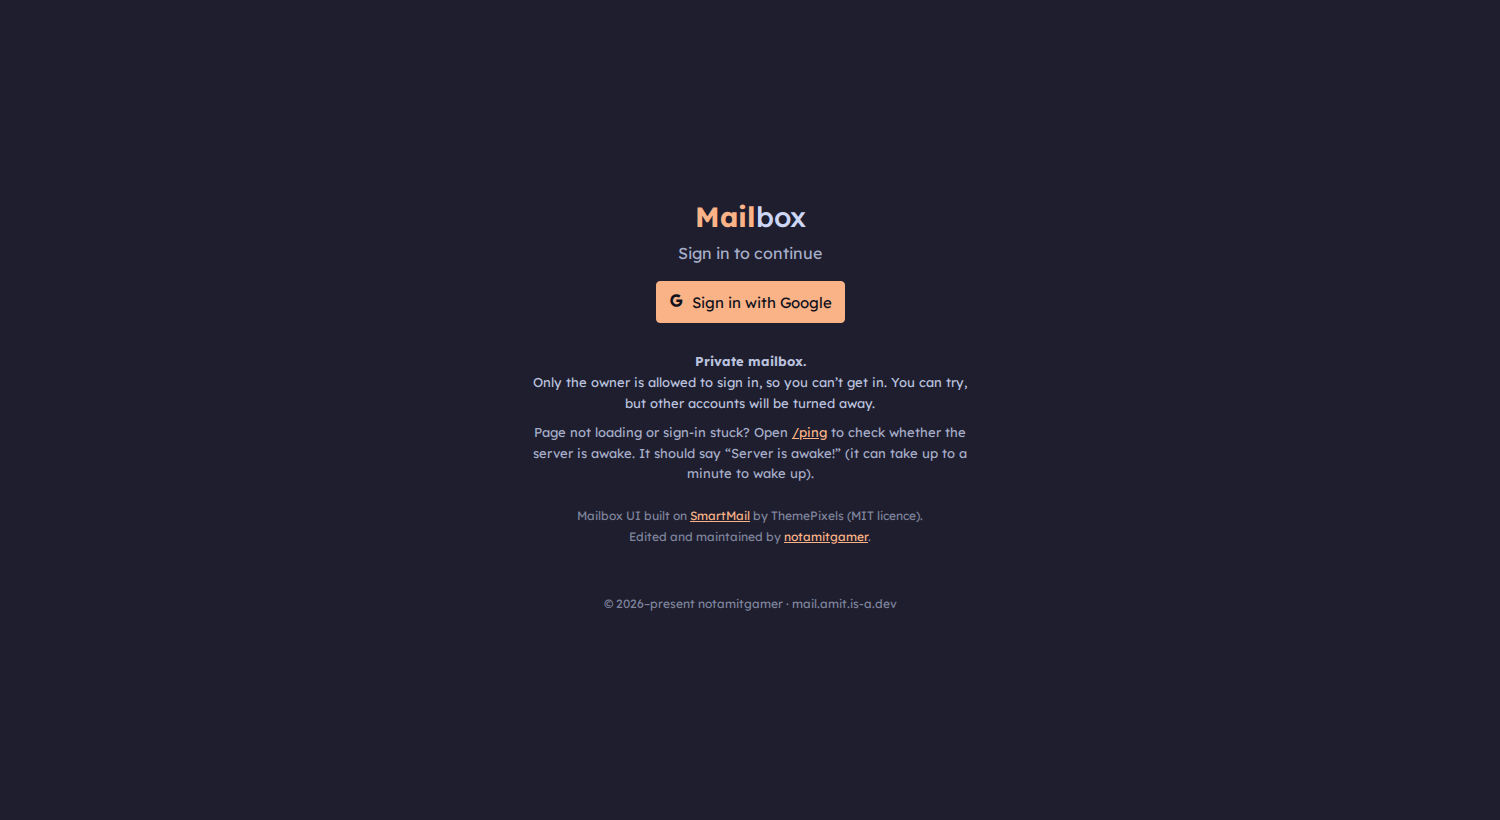
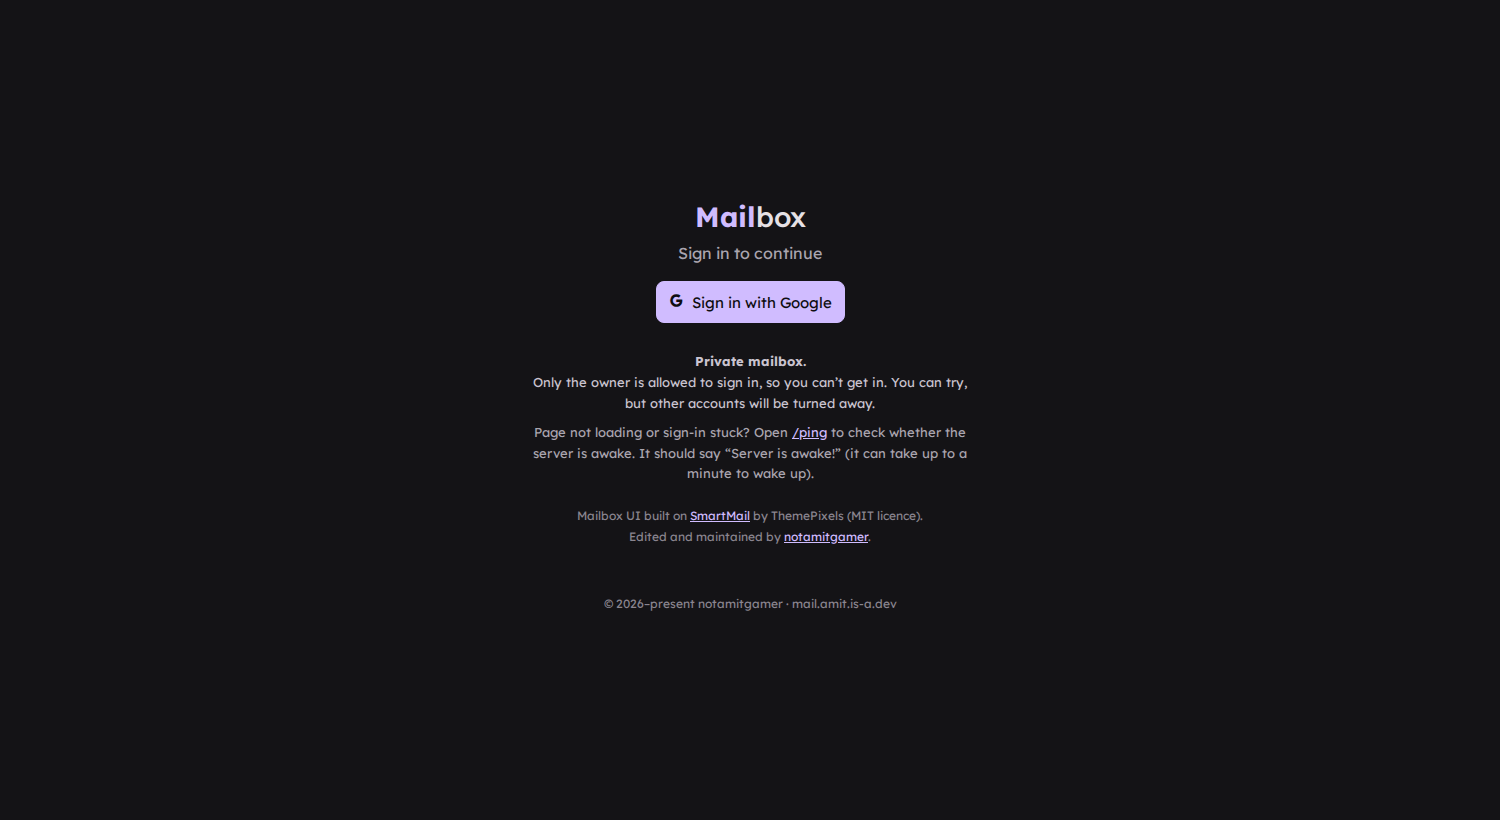
Unread-only chip, refreshed README screenshots and badge colours

diff --git a/public/assets/js/app.js b/public/assets/js/app.js
@@ -1057,8 +1057,10 @@ function setFilter(f) {
   state.filter = f;
   $('#btnFilter').toggleClass('d-none', state.folder !== 'inbox').toggleClass('on', f === 'unread')
     .attr({ 'aria-pressed': String(f === 'unread'), title: f === 'unread' ? 'Showing unread only' : 'Show unread only' });
+  $('#filterChip').toggleClass('d-none', !(f === 'unread' && state.folder === 'inbox'));
   if (state.mails) renderList();
 }
+$('#filterChip button').on('click', () => setFilter('all'));
 $('#btnFilter').on('click', (e) => { e.preventDefault(); setFilter(state.filter === 'unread' ? 'all' : 'unread'); });
 const openSearch = () => { $('.mailbox-header').addClass('searching'); $('#search').trigger('focus'); };
 $('#btnSearch').on('click', (e) => { e.preventDefault(); openSearch(); });

diff --git a/public/assets/css/app.css b/public/assets/css/app.css
@@ -355,3 +355,9 @@ input[type="checkbox"] { accent-color: var(--peach); }
 .appbar-actions > a.d-none { display: none; }
 .mailbox-header.searching #btnSearch { display: none; }
 .mailbox-header .mail-avatar { position: static; margin: 0 4px 0 6px; flex: none; }
+
+.filter-chip { display: inline-flex; align-items: center; gap: 2px; margin: 8px 12px 0; padding: 4px 4px 4px 12px; font-size: 13px; color: var(--peach);
+  background: var(--surface1); border-radius: 8px; }
+.filter-chip button { border: 0; background: transparent; color: inherit; display: inline-flex; padding: 2px; border-radius: 50%; font-size: 16px; cursor: pointer; }
+.filter-chip button:hover { background: var(--surface2); }
+.appbar-actions > a.on:not(.mail-avatar) { color: var(--peach); }

diff --git a/public/index.html b/public/index.html
@@ -71,6 +71,8 @@
         </div>
       </div>
 
+      <div id="filterChip" class="filter-chip d-none"><span>Unread only</span><button type="button" aria-label="Show all mail"><i class="ri-close-line" aria-hidden="true"></i></button></div>
+
       <div id="ptr" class="ptr" aria-hidden="true"><i class="ri-refresh-line"></i></div>
       <ul id="mailGroup" class="mail-group" aria-label="Messages" aria-busy="false"></ul>
     </div>

diff --git a/README.md b/README.md
@@ -9,9 +9,9 @@
 </p>
 
 <p align="center">
-  <a href="LICENSE"><img alt="License: MIT" src="https://img.shields.io/badge/license-MIT-fab387?labelColor=1e1e2e"></a>
-  <img alt="Node.js 18 or newer" src="https://img.shields.io/badge/node-%3E%3D18-fab387?labelColor=1e1e2e">
-  <a href="https://docs.amit.is-a.dev/mail-server"><img alt="Documentation" src="https://img.shields.io/badge/docs-read-fab387?labelColor=1e1e2e"></a>
+  <a href="LICENSE"><img alt="License: MIT" src="https://img.shields.io/badge/license-MIT-d0bcff?labelColor=141316"></a>
+  <img alt="Node.js 18 or newer" src="https://img.shields.io/badge/node-%3E%3D18-d0bcff?labelColor=141316">
+  <a href="https://docs.amit.is-a.dev/mail-server"><img alt="Documentation" src="https://img.shields.io/badge/docs-read-d0bcff?labelColor=141316"></a>
 </p>
 
 [Resend](https://resend.com) receives the mail, the server stores it in [Firebase Firestore](https://firebase.google.com/docs/firestore), and an installable web app lets you read, reply, forward and send, with push notifications for new mail. Nothing is forwarded to a third-party inbox.

diff --git a/THIRD_PARTY_NOTICES.md b/THIRD_PARTY_NOTICES.md
@@ -4,7 +4,7 @@ mail-server is released under the [MIT License](LICENSE). The web app in `public
 
 ## SmartMail (interface template)
 
-The mailbox interface (markup, layout and the compiled stylesheet in `public/assets/css/style.min.css`) is based on [SmartMail](https://github.com/themepixels/smartmail) by ThemePixels, released under the MIT License. The colours are overridden with the Catppuccin Mocha palette, and the behaviour is rewritten to work with this project's API. The original license is also kept at `public/vendor/SMARTMAIL-LICENSE.txt`.
+The mailbox interface (markup, layout and the compiled stylesheet in `public/assets/css/style.min.css`) is based on [SmartMail](https://github.com/themepixels/smartmail) by ThemePixels, released under the MIT License. The colours are overridden with a neutral dark palette, and the behaviour is rewritten to work with this project's API. The original license is also kept at `public/vendor/SMARTMAIL-LICENSE.txt`.
 
 ```
 MIT License
